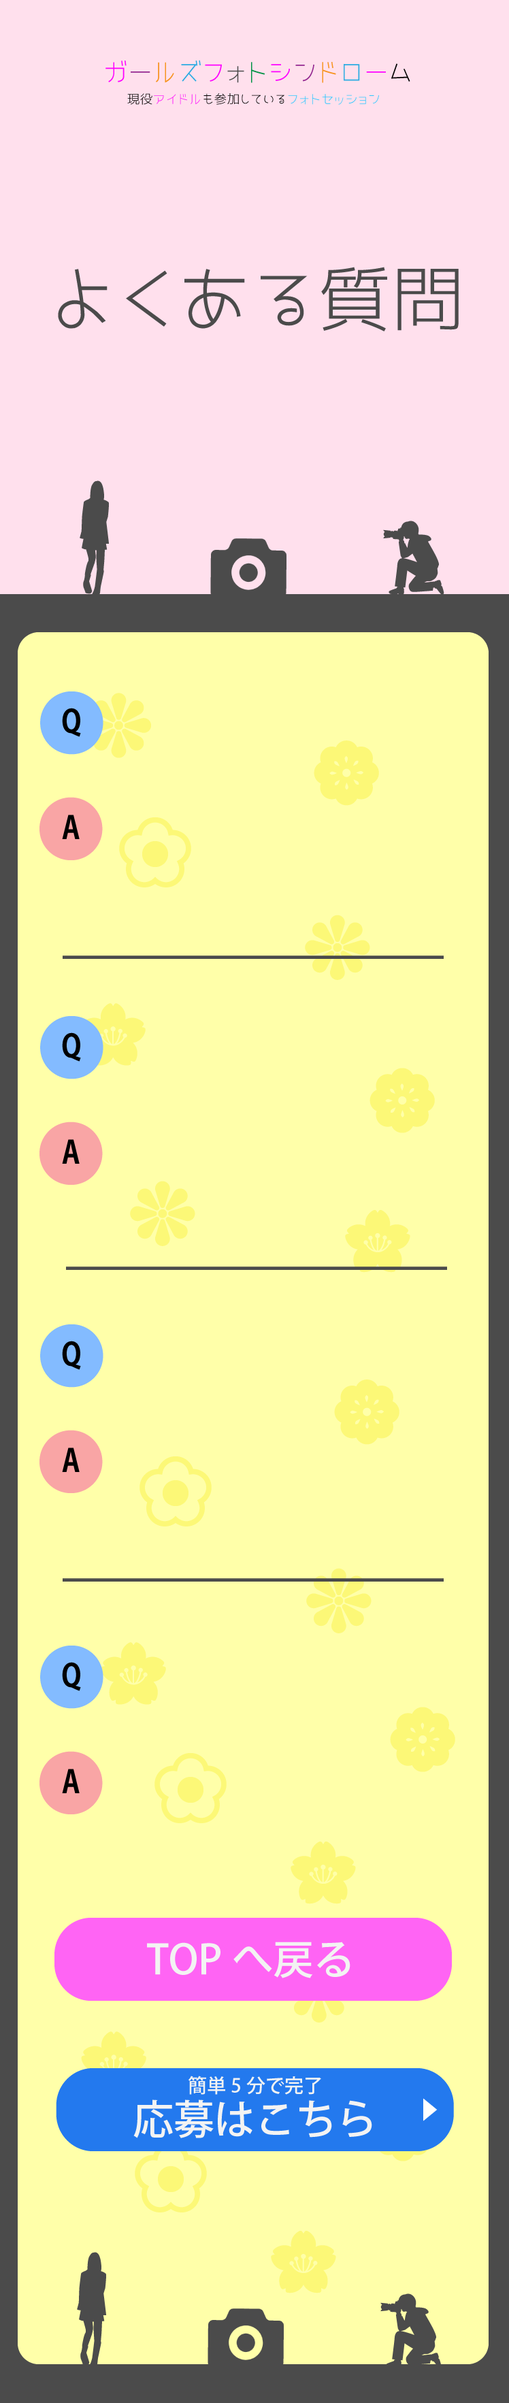
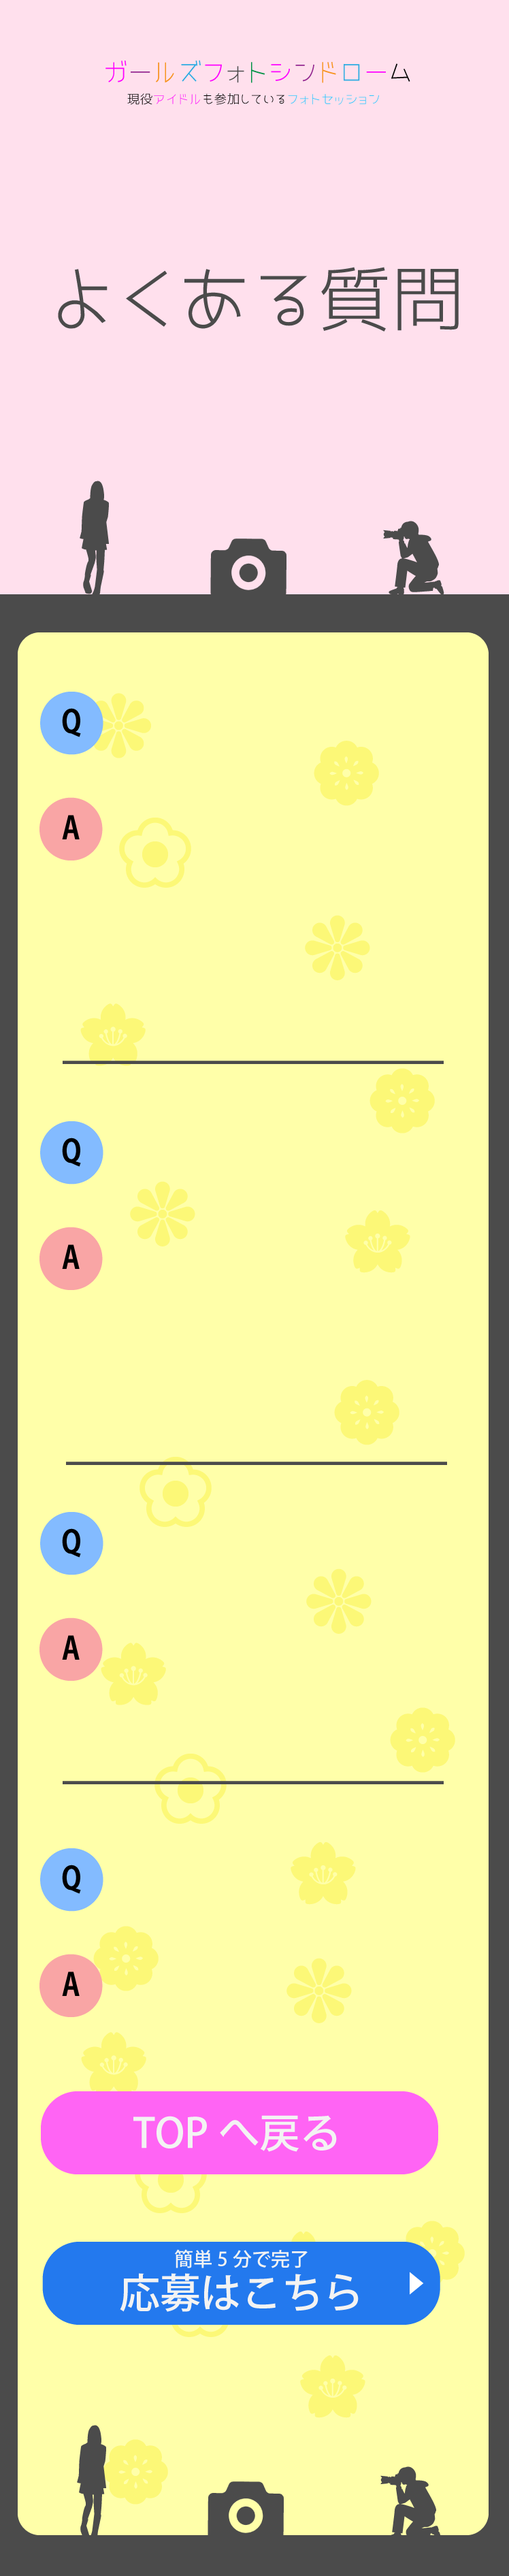
asdf

diff --git a/style.css b/style.css
@@ -145,42 +145,42 @@ body{
 
 .btn-top_q3{
   position:absolute;
-  margin-top:202%;
+  margin-top:223%;
   margin-left:22%;
   z-index:2;
 }
 
 .btn-top_q4{
   position:absolute;
-  margin-top:220%;
+  margin-top:240%;
   margin-left:22%;
   z-index:2;
 }
 
 .btn-top_q5{
   position:absolute;
-  margin-top:264%;
+  margin-top:300%;
   margin-left:22%;
   z-index:2;
 }
 
 .btn-top_q6{
   position:absolute;
-  margin-top:280%;
+  margin-top:317%;
   margin-left:22%;
   z-index:2;
 }
 
 .btn-top_q7{
   position:absolute;
-  margin-top:325%;
+  margin-top:364%;
   margin-left:22%;
   z-index:2;
 }
 
 .btn-top_q8{
   position:absolute;
-  margin-top:345%;
+  margin-top:385%;
   margin-left:22%;
   z-index:2;
 }

diff --git a/index2.php b/index2.php
@@ -13,19 +13,19 @@
   <div class="btn-top_q">  <p>SNSに写真はアップされたりしますか？</p> </div>
 </div>
 
-  <div class="btn-top_q2">  <p>SNSに関しましては、モデル本人様の<br>ご要望にお答えします！アップしたい写<br>真NGな写真があればお気軽にお申し付<br>けください！</p> </div>
+  <div class="btn-top_q2">  <p>SNSに関しましては、モデル本人様の<br>ご要望にお答えします!アップしたい写<br>真NGな写真があればお気軽にお申し付<br>けください！弊社HPに実際の写真とし<br>UPさせて頂く場合がございます。勝手<br>にカメラマンがSNSにUPすることはご<br>ざいません。</p> </div>
 </div>
 
   <div class="btn-top_q3">  <p>急に参加したい場合は可能ですか？</p> </div>
 </div>
 
-  <div class="btn-top_q4">  <p>可能です！撮影会開始時刻に間に合う<br>ように来ていただければご参加可能で<br>す！</p> </div>
+  <div class="btn-top_q4">  <p>可能です！撮影会開始時刻に間に合う<br>ように来ていただければご参加可能で<br>す！ですがカメラマンさんを募る場面<br>が必要です（二週間程度）参加は可能<br>ですが、できるだけ早くお申し付けく<br>ださい。</p> </div>
 </div>
 
   <div class="btn-top_q5">  <p>露出度の高い衣装の撮影はありますか？</p> </div>
 </div>
 
-  <div class="btn-top_q6">  <p>ございます。ですが予め水着、下着で<br>の撮影がNGかOKかお申し付けくだ<br>さい。</p> </div>
+  <div class="btn-top_q6">  <p>企画によってはございます。ですが予め<br>水着、下着での撮影がNGかOKかお申し<br>付けください。参加NGでも大丈夫です。</p> </div>
 </div>
 
   <div class="btn-top_q7">  <p>モデルの経験や、撮影会経験がない<br>のですが・・・</p> </div>
